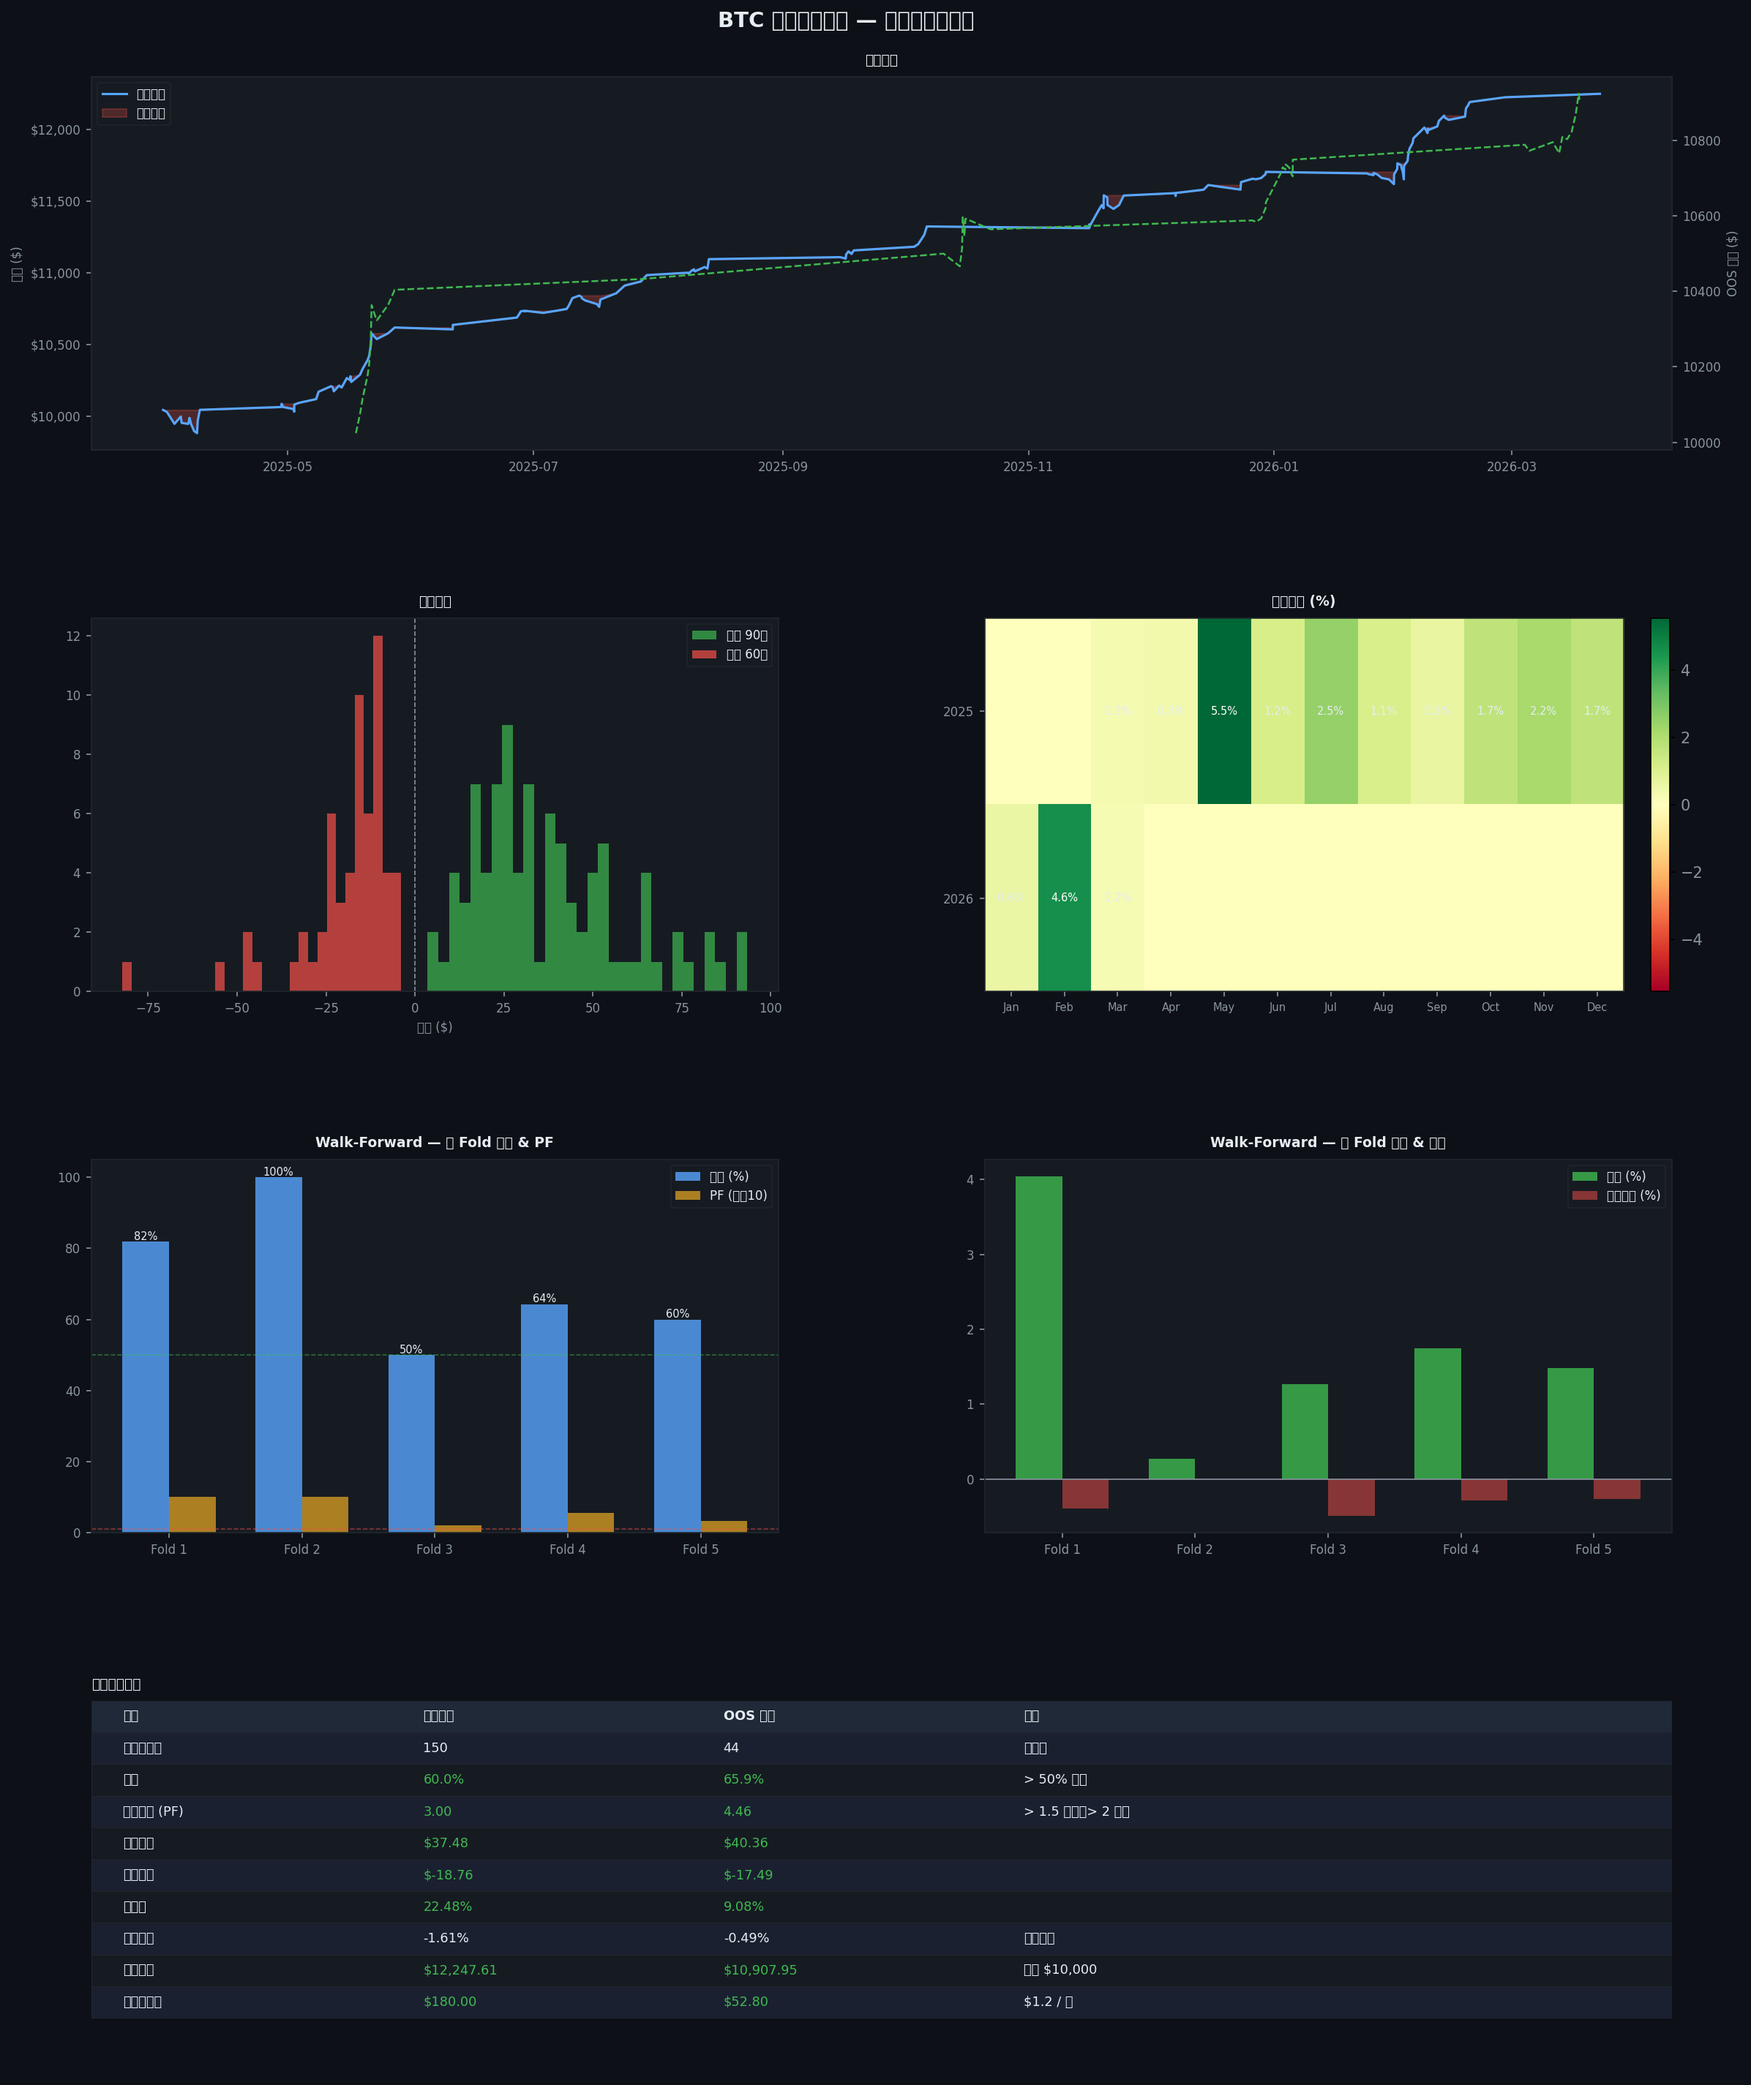
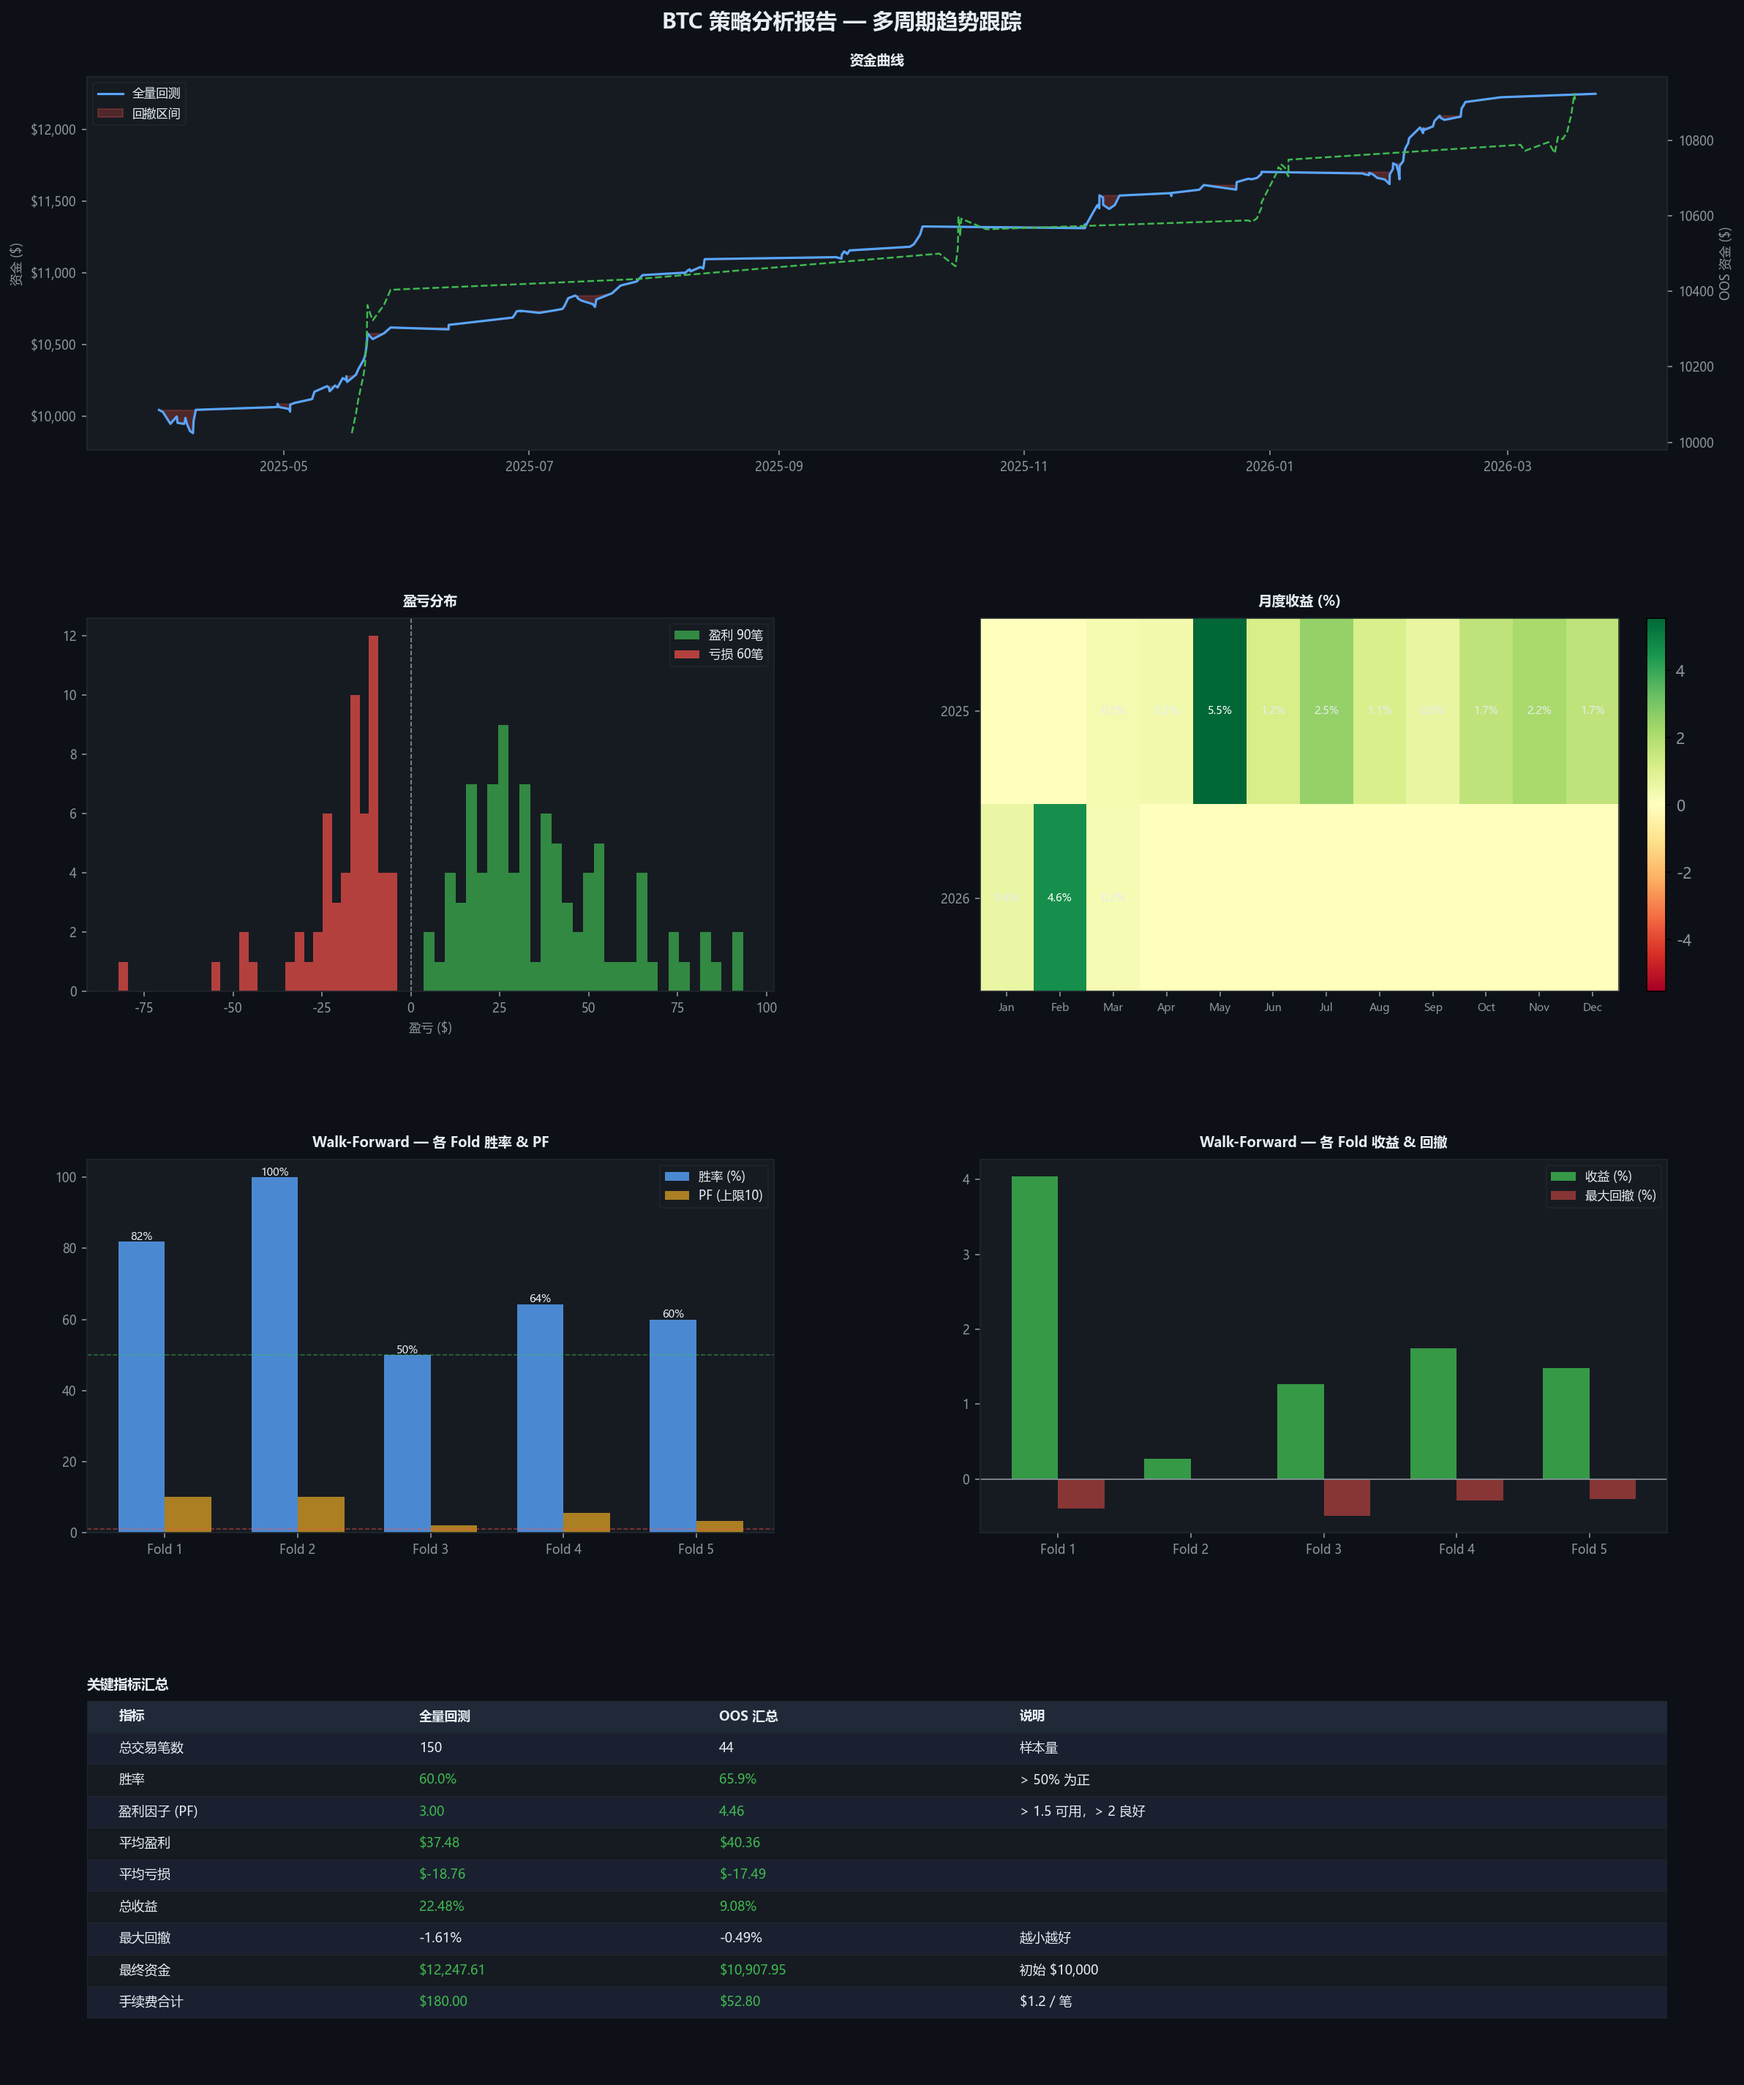
fix: 修复中文乱码，使用 Microsoft YaHei 字体

diff --git a/1_trend_following/report.py b/1_trend_following/report.py
@@ -18,6 +18,8 @@ import numpy as np
 import matplotlib
 matplotlib.use('Agg')
 import matplotlib.pyplot as plt
+matplotlib.rcParams['font.family'] = 'Microsoft YaHei'
+matplotlib.rcParams['axes.unicode_minus'] = False
 import matplotlib.gridspec as gridspec
 from matplotlib.colors import TwoSlopeNorm
 import warnings
